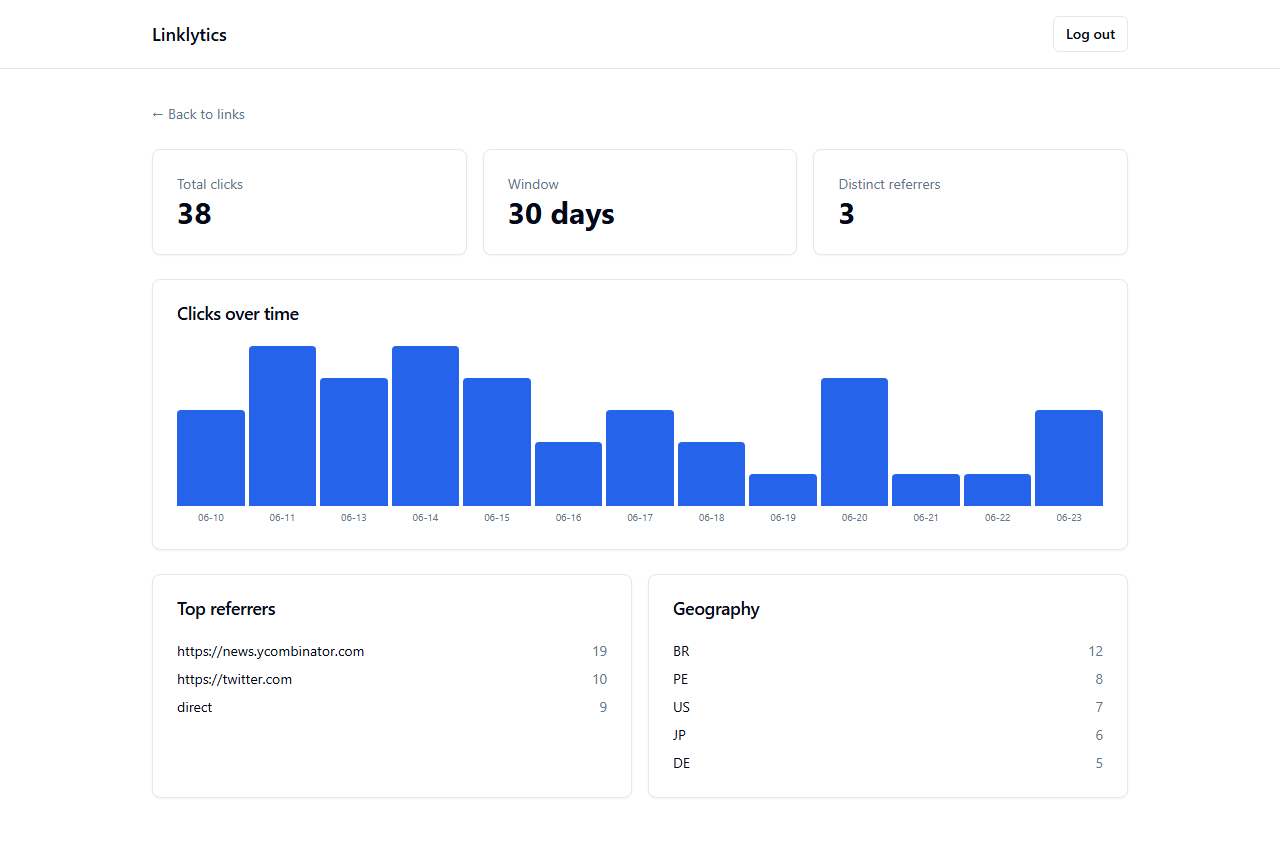
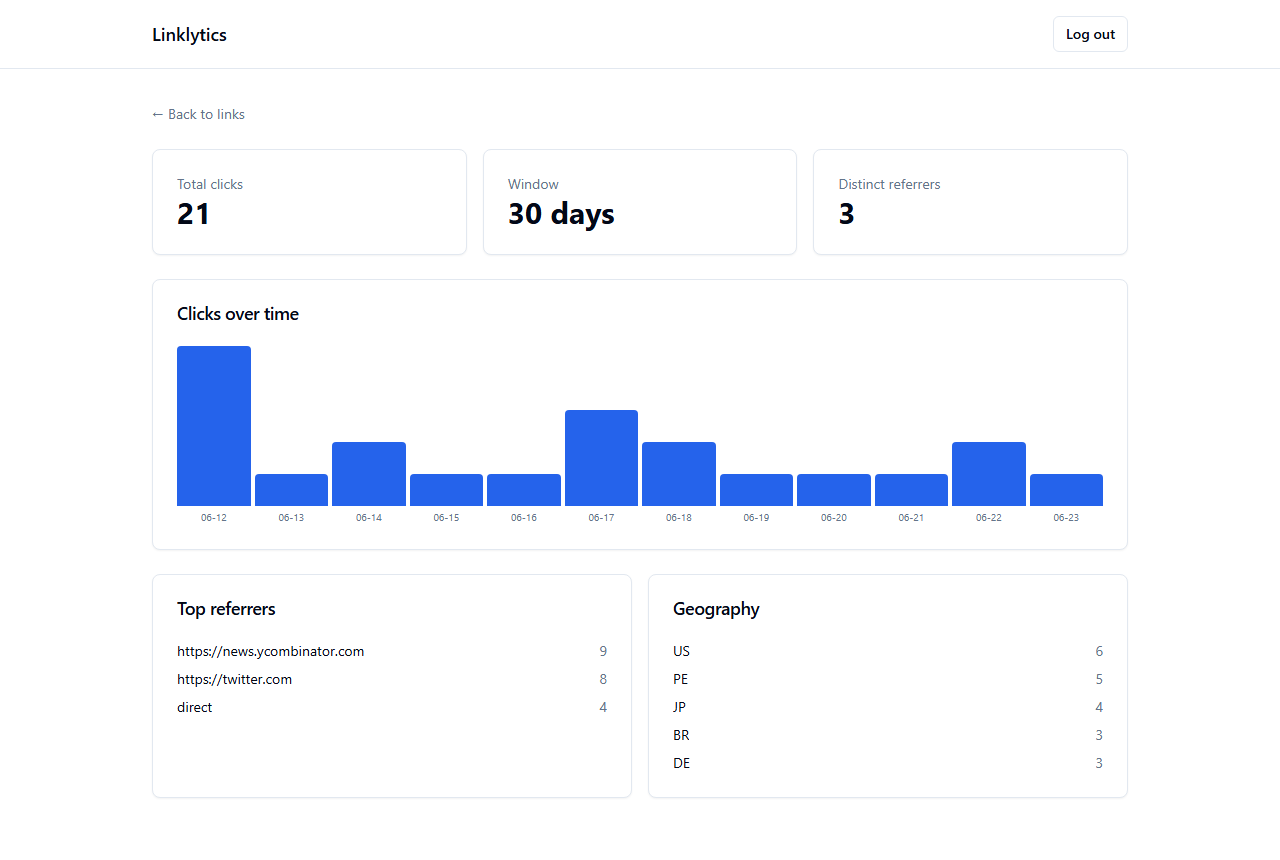
docs: refresh screenshots and feature list for v0.3
New dashboard (branded slugs, expiry, search, QR, enable/disable) and the
analytics chart reading from the daily rollup.

Changed region(s): [[0.125, 0.393, 0.875, 0.6047], [0.125, 0.2419, 0.1875, 0.2721]]

diff --git a/README.md b/README.md
@@ -33,15 +33,19 @@ referrers and geography per link.
 
 ## Features
 
-- **Auth** — register / login / logout / me, bcrypt (cost 12), JWT in an
-  httpOnly `SameSite=Lax` cookie, route guard.
-- **Links** — owner-scoped CRUD, collision-safe slug generation, copy-to-clipboard.
+- **Auth** — register / login / logout / me; bcrypt (cost 12); short-lived
+  access JWT in an httpOnly `SameSite=Lax` cookie + **rotating refresh tokens**.
+- **Links** — owner-scoped CRUD, collision-safe **or branded (custom) slugs**,
+  **expiry + active toggle**, **pagination & search**, **QR codes**,
+  copy-to-clipboard.
 - **Redirects** — `GET /r/:slug` resolves via Redis (cache) with a Postgres
-  fallback, records a click asynchronously, and returns `302`.
-- **Analytics** — clicks over time, top referrers, and geography (offline IP→geo).
-- **Ops** — `/healthz` liveness, `/readyz` readiness (checks Postgres + Redis),
-  Prometheus `/metrics`, Helmet, CORS whitelist, Redis-backed rate limiting on
-  create + redirect.
+  fallback, records a click asynchronously, returns `302` (or `410 Gone` when
+  inactive/expired).
+- **Analytics** — clicks over time (**daily rollup**), top referrers, geography
+  (offline IP→geo).
+- **Ops** — `/healthz` / `/readyz`, Prometheus `/metrics` (optional bearer auth),
+  **structured logging** (pino + `x-request-id`), Helmet, CORS whitelist,
+  **Redis sliding-window rate limiting** on create + redirect.
 
 ## Architecture
 